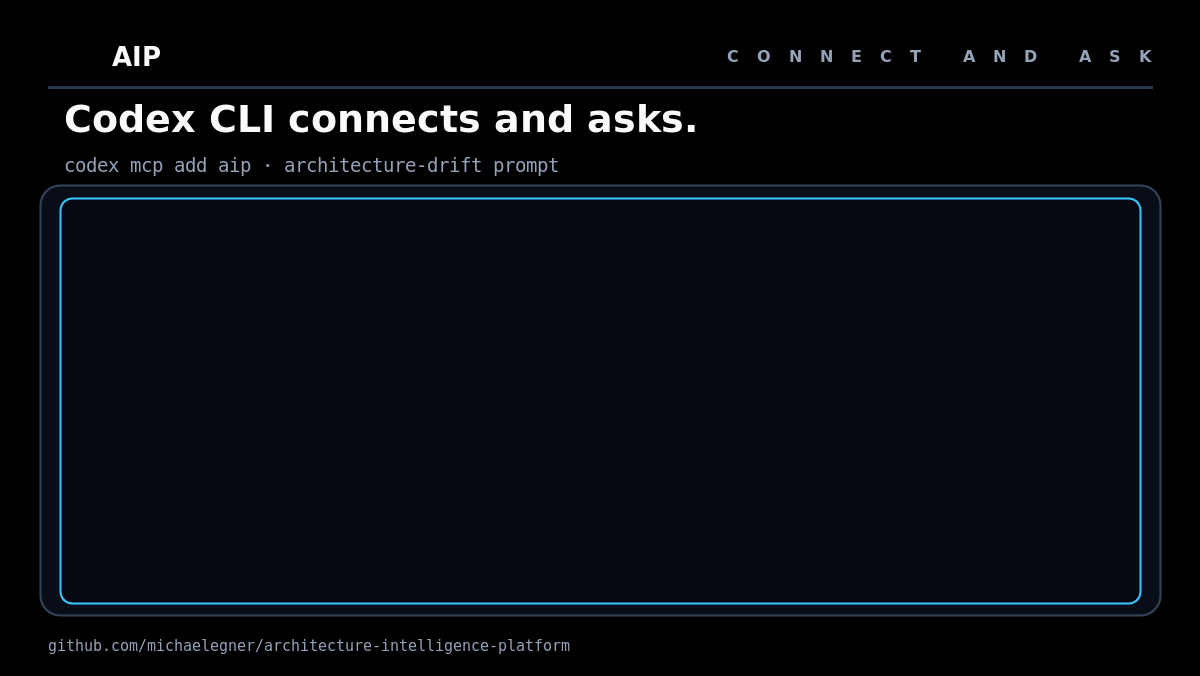
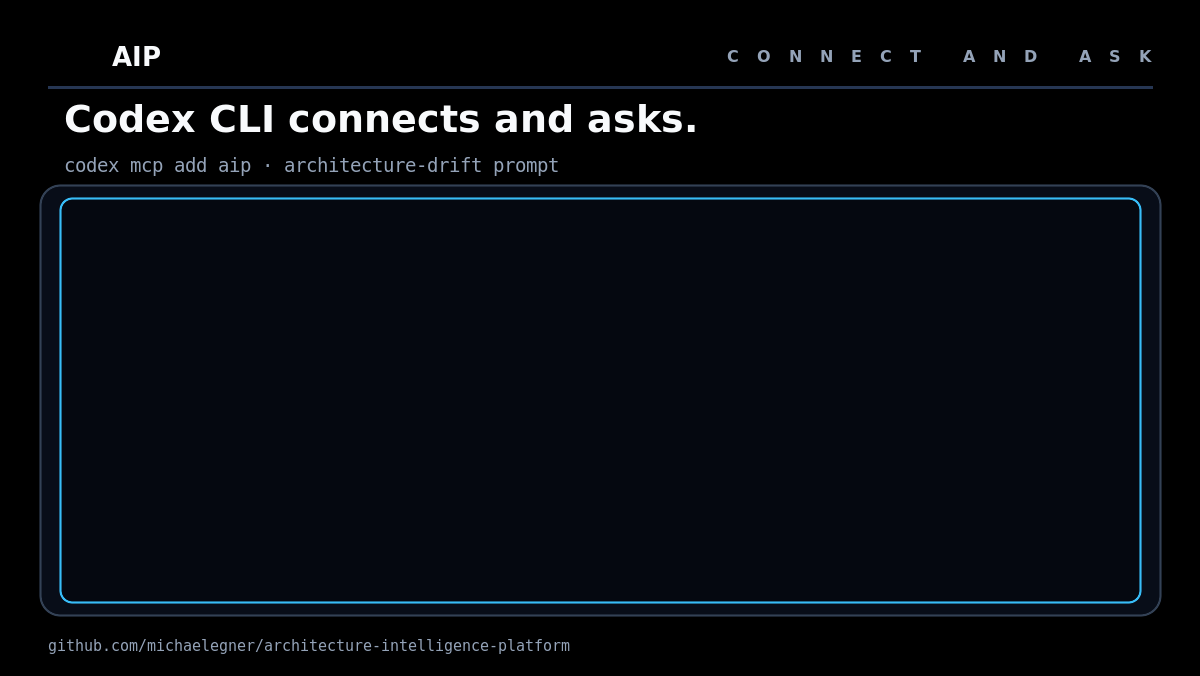
feat: render video/agent-demo/ from real Codex CLI captures, embed in README (#168)
The two required real captures (captures/01-connect-tella.mp4,
captures/02-toolcalls-tella.mp4, both recorded per the established
contract) have been rendered into the final animated WebP, and
README.md's "Connect AIP to Your Coding Agent" section now embeds it -
the part deferred from #167 pending real footage.

Two real environment-specific bugs found and fixed while rendering
against actual footage, not just placeholder scale-to-fit:

- PANEL_H=405 (copied verbatim from video/readme-demo/render.py) is odd,
  which is invalid for yuv420p - real captures decode as yuv420p, and
  compositing them made ffmpeg's pad filter fail with "Padded dimensions
  cannot be smaller than input dimensions" on every frame past the
  first. Confirmed via isolated tests that the identical filter chain
  succeeds at height 404 and fails at 405, independent of crop/scale
  details. Changed PANEL_H to 404 in both render.py and render-video.sh.

- ImageMagick's policy.xml "area" resource (256MP on this environment)
  is a hard per-invocation ceiling a CLI -limit flag can only lower,
  never raise. This package's longer ~39s runtime, at the same 13fps
  video/readme-demo uses, needs ~411MP total across all frames when
  ffmpeg lacks a native libwebp encoder (the ImageMagick fallback path)
  - well past the ceiling, which corrupted the WebP silently ("cache
  resources exhausted" during the build, "image data not found" reading
[…]

Changed region(s): [[0.0617, 0.8698, 0.9558, 0.9009]]

diff --git a/video/agent-demo/render.py b/video/agent-demo/render.py
@@ -23,13 +23,17 @@ PURPLE = "#8B5CF6"
 RED = "#FB7185"
 
 # Placeholder panel geometry -- render-video.sh composites the real Tella captures into
-# this exact rectangle on scenes 02 and 03. Keep these two definitions in sync. Identical
-# to video/readme-demo/render.py's own PANEL_* -- same panel size reads well at the same
-# 1200x676 frame, no reason to diverge.
+# this exact rectangle on scenes 02 and 03. Keep these two definitions in sync. Deliberately
+# PANEL_H=404, not readme-demo/render.py's PANEL_H=405: an odd height is invalid for yuv420p
+# (chroma planes are subsampled by 2 in both dimensions), and real captures decode as yuv420p
+# - discovered when compositing genuine Tella footage into this panel produced "Padded
+# dimensions cannot be smaller than input dimensions" from ffmpeg's pad filter on every frame
+# past the first. Confirmed via isolated ffmpeg tests: the exact same scale+pad chain succeeds
+# at PANEL_H=404 and fails at 405, regardless of crop/scale details.
 PANEL_X = 60
 PANEL_Y = 198
 PANEL_W = 1080
-PANEL_H = 405
+PANEL_H = 404
 
 ROOT = Path(__file__).resolve().parent
 SCENES_DIR = ROOT / "scenes"

diff --git a/video/agent-demo/README.md b/video/agent-demo/README.md
@@ -1,11 +1,8 @@
 # AIP — Agent-in-Action Demo
 
-**Status: pipeline built, not yet rendered.** The two required real captures
-(`captures/01-connect-tella.mp4`, `captures/02-toolcalls-tella.mp4`) have not been recorded yet, so
-`output/aip-agent-demo.webp` does not exist and `README.md` does not embed it yet — embedding a
-reference to a file that doesn't exist would be a broken image on GitHub. Once the real captures are
-recorded (see "Required Codex CLI captures" below) and `render-video.sh` produces the final WebP, a
-follow-up change adds the actual `README.md` embed.
+**Status: rendered.** The two required real Codex CLI captures have been recorded and composited;
+`output/aip-agent-demo.webp` exists and `README.md`'s "Connect AIP to Your Coding Agent" section
+embeds it.
 
 This production package builds a short (~39 second, silent, 1200×676 landscape) animation intended
 for `README.md`'s "Connect AIP to Your Coding Agent" section. Like
@@ -25,33 +22,27 @@ Claude Code, Cursor, and VS Code instead.
 
 ## Deliverables
 
-Once the real captures exist and `render-video.sh` has been run, everything below will be committed
-to the repo **except** the MP4 and the raw captures, which are gitignored (repo-wide `*.mp4` rule)
-as regenerable/source build artifacts, exactly like `video/v0.4.0-linkedin/`'s and
-`video/readme-demo/`'s own packages. Currently committed: `render.py`, `render-video.sh`, this
-README, `captures/README.md`, `scenes/*.svg`/`*.png`, and `storyboard.png`. Not yet committed
-(pipeline exists, awaiting the real captures): `output/aip-agent-demo.webp`,
-`output/aip-agent-demo-poster.png`.
+Everything below is committed to the repo **except** the MP4 and the raw captures, which are
+gitignored (repo-wide `*.mp4` rule) as regenerable/source build artifacts, exactly like
+`video/v0.4.0-linkedin/`'s and `video/readme-demo/`'s own packages:
 
 - `output/aip-agent-demo.mp4` — silent H.264 master, source quality, **not committed** — rebuild
   locally with `render-video.sh` if you need it
-- `output/aip-agent-demo.webp` — animated WebP — **will be committed** once rendered; this is what
-  `README.md` will embed
-- `output/aip-agent-demo-poster.png` — **will be committed** once rendered, a static first-frame
-  poster for slow connections
+- `output/aip-agent-demo.webp` — animated WebP, **committed** — this is what `README.md` embeds
+- `output/aip-agent-demo-poster.png` — committed, static first-frame poster for slow connections
 - `storyboard.png` — committed, 3×2 contact sheet for reviewing all five scenes at once
 - `scenes/*.png` — committed, rendered scene backplates
 - `scenes/*.svg` — committed, editable vector sources
 - `render.py` / `render-video.sh` — committed, reproducible renderers
 - `captures/*.mp4` — **not committed** — the real Codex CLI screen recordings (see below)
 
-## Why the WebP, not the MP4, will be what's embedded in `README.md`
+## Why the WebP, not the MP4, is what's embedded in `README.md`
 
 Same reasoning as `video/readme-demo/README.md`: GitHub only autoplays `<video>`-tag content
 uploaded through its own web-UI drag-and-drop pipeline, not a `<video src="...">` pointing at an
 ordinary committed repo path. A plain markdown image reference to an **animated WebP**
 (`![alt](path.webp)`) autoplays and loops via ordinary browser `<img>` animated-image behavior — the
-same mechanism animated GIFs use. So once rendered, `README.md` will reference
+same mechanism animated GIFs use. So `README.md` references
 `video/agent-demo/output/aip-agent-demo.webp` directly with `![]()` syntax, never a `<video>` tag.
 
 ## Required Codex CLI captures
@@ -142,12 +133,31 @@ package (`output/`, a `mktemp -d` inside `${ROOT}`) rather than the system `/tmp
 autonomous tool calls (real capture) → result → CTA. Transitions are 0.35s fades through the
 background color (`#0B1020`), matching `video/readme-demo/`'s convention.
 
-**Crop windows are untuned placeholders.** `render-video.sh`'s `CONNECT_CROP`/`TOOLCALLS_CROP`
-currently default to "no crop, just scale to fit" because no real footage exists yet. Once the two
-captures above are recorded, re-derive these the same way `video/readme-demo/README.md` documents:
-extract a frame or two (e.g. `ffmpeg -i <capture> -frames:v 1 <out>.png`, written under this
-package's directory, not `/tmp`), eyeball where the decisive terminal content sits, and crop tightly
-to it so the composited text reads at a legible size instead of shrinking to a sliver of the panel.
+**Crop windows are tuned against the real captures.** `render-video.sh`'s `CONNECT_CROP`/
+`TOOLCALLS_CROP` were derived the same way `video/readme-demo/README.md` documents: extract a frame
+or two (e.g. `ffmpeg -i <capture> -frames:v 1 <out>.png`, written under this package's directory, not
+`/tmp` — both recordings' source app windows use OBS's private `/tmp` mount, invisible to a
+snap-packaged `ffmpeg`, on at least one environment this was tuned in), eyeball where the decisive
+terminal content sits, and crop tightly to it. Both source recordings are full 1920×1080 app windows,
+not tightly-framed terminals, so a full-frame "no crop, scale to fit" leaves most of the panel empty
+— re-derive these values the same way if the captures are ever re-recorded.
+
+Two other environment-specific findings from tuning against real footage, in case they recur
+elsewhere:
+
+- **`PANEL_H` must be even.** An odd panel height is invalid for yuv420p (chroma planes are
+  subsampled by 2 in both dimensions) — real captures decode as yuv420p, and compositing them
+  produced ffmpeg's `pad` filter failing with "Padded dimensions cannot be smaller than input
+  dimensions" on every frame past the first. This is why this package's `PANEL_H` is `404`, not
+  `video/readme-demo/render.py`'s `405` — confirmed via isolated tests that the identical filter
+  chain fails at height 405 and succeeds at 404, independent of crop/scale details.
+- **ImageMagick's `policy.xml` "area" resource is a hard per-invocation ceiling** (commonly 256
+  megapixels) that a CLI `-limit` flag can only lower, never raise. On environments where `ffmpeg`
+  lacks a native `libwebp` encoder (this script's fallback path), building one animated WebP from
+  every extracted frame can exceed it for a clip this long, corrupting the output silently ("cache
+  resources exhausted" during the build, then "image data not found" reading the result back) rather
+  than failing loudly. `WEBP_FPS` is deliberately lower here (`7`) than `video/readme-demo`'s `13` to
+  keep the total frame count safely under that ceiling at this package's longer ~39s runtime.
 
 ## Acceptance criteria
 

diff --git a/README.md b/README.md
@@ -194,6 +194,10 @@ Expected AIP findings:
 - `LegacyPricingService` — `OBSERVED_ONLY` (observed at runtime, never declared)
 - `unused-q` — `NOT_OBSERVED_IN_WINDOW` (declared, not seen in this window — never "unused" or "dead")
 
+Here's Codex CLI doing exactly that, live:
+
+![Codex CLI autonomously calling AIP's get_architecture_drift and get_evidence tools, finding LegacyPricingService as an undocumented OBSERVED_ONLY dependency and resolving its OpenTelemetry evidence — no manual per-call direction.](video/agent-demo/output/aip-agent-demo.webp)
+
 These instructions target **locally running** clients — a hosted/cloud agent usually can't reach
 your `localhost`. `/mcp` has no public-internet authentication in `v0.4.2`; keep it local or on a
 trusted network. AIP itself needs no LLM API key for this path; your client may still need its own.
